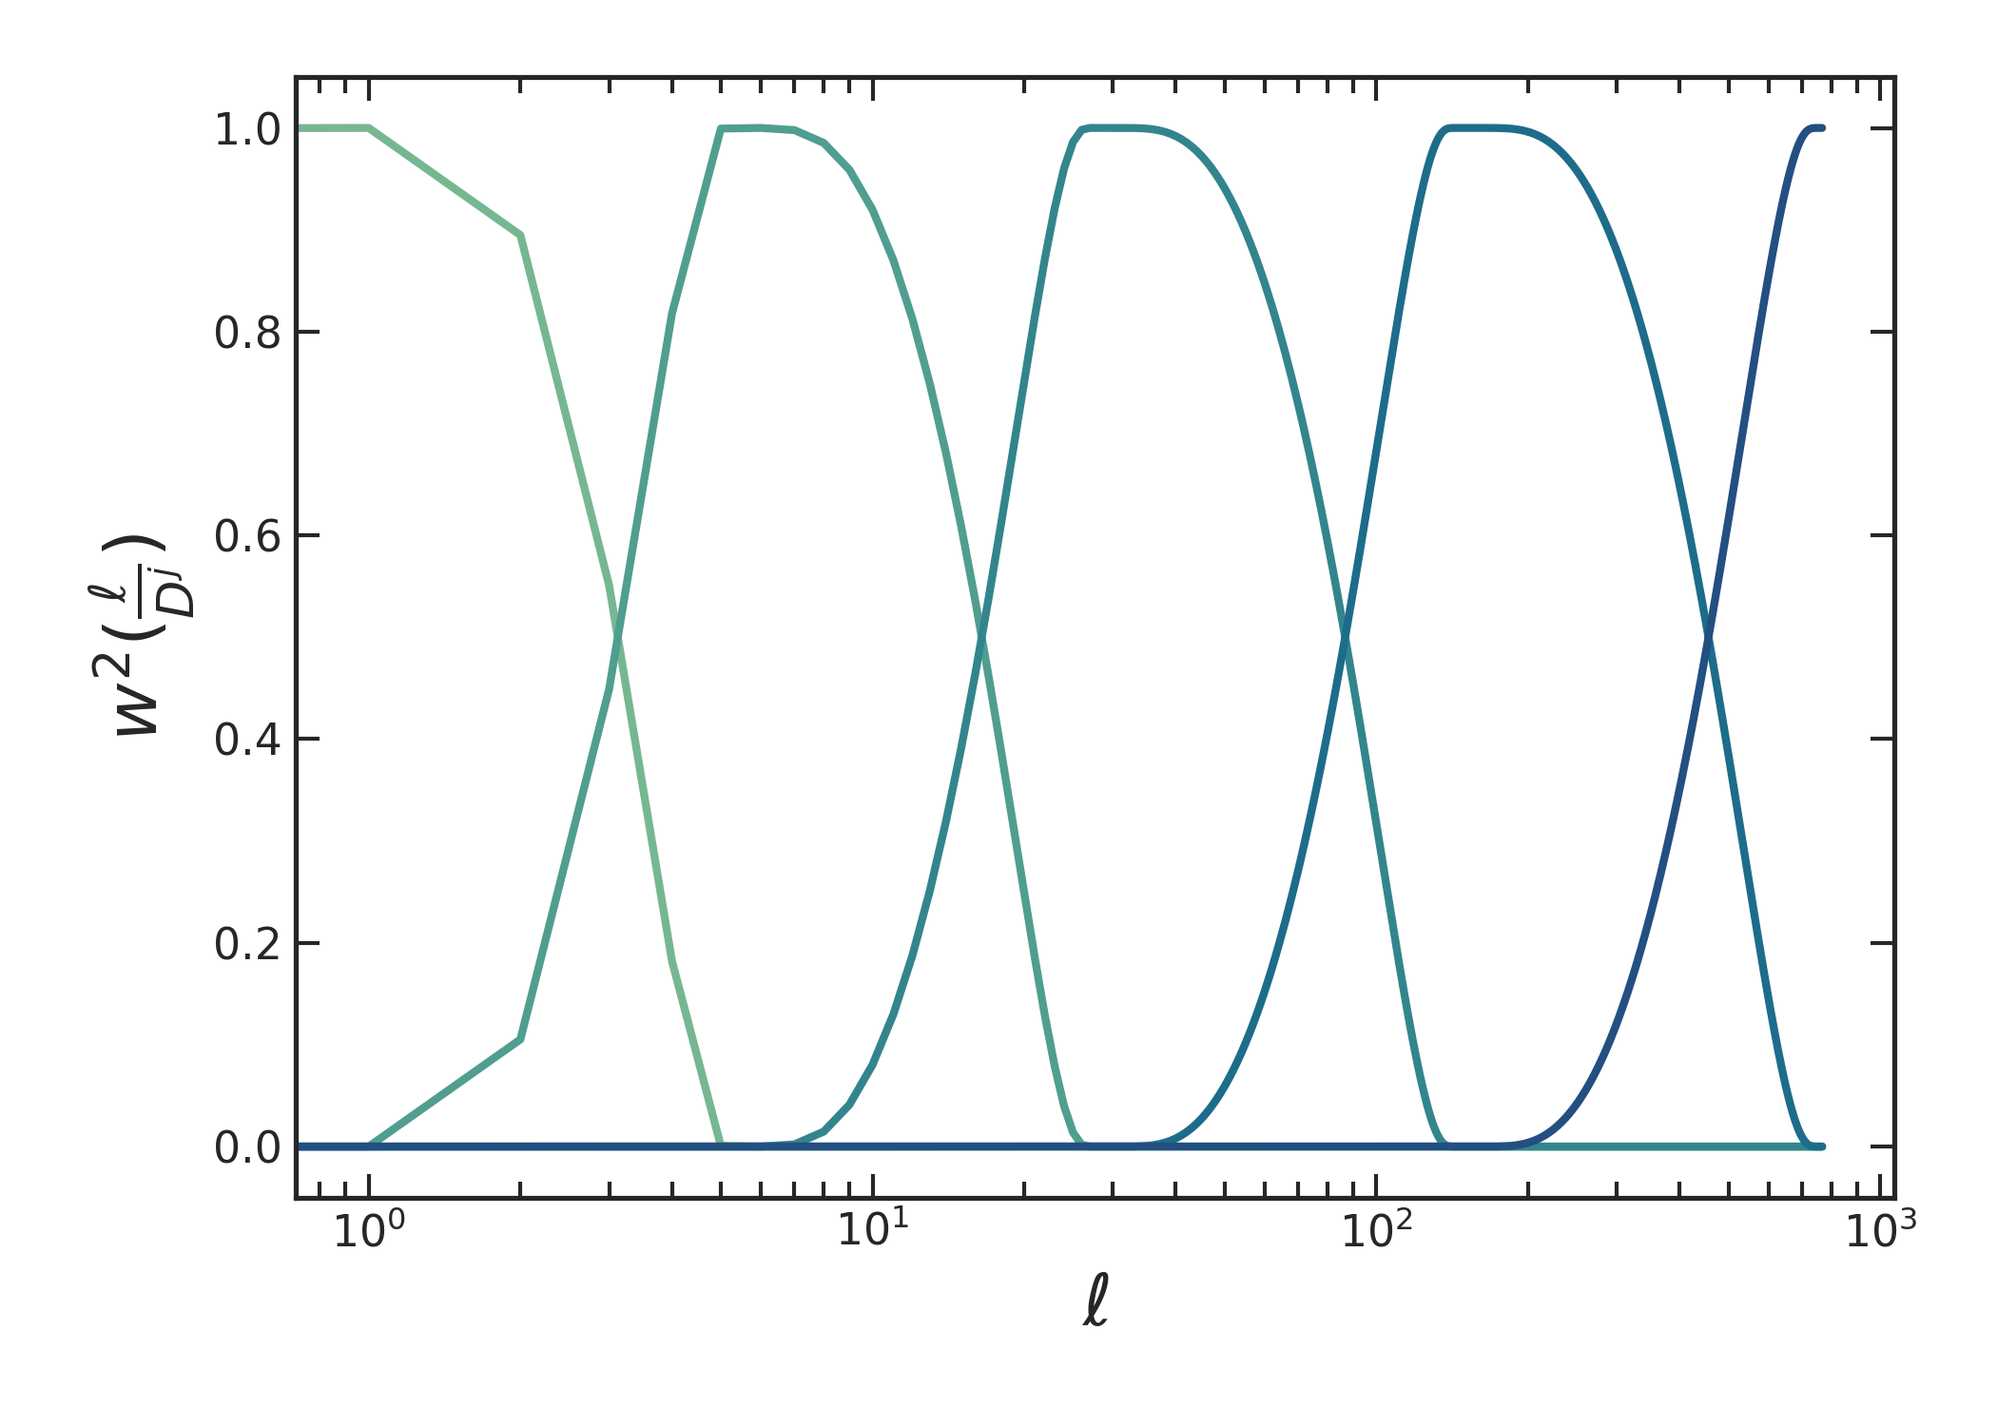
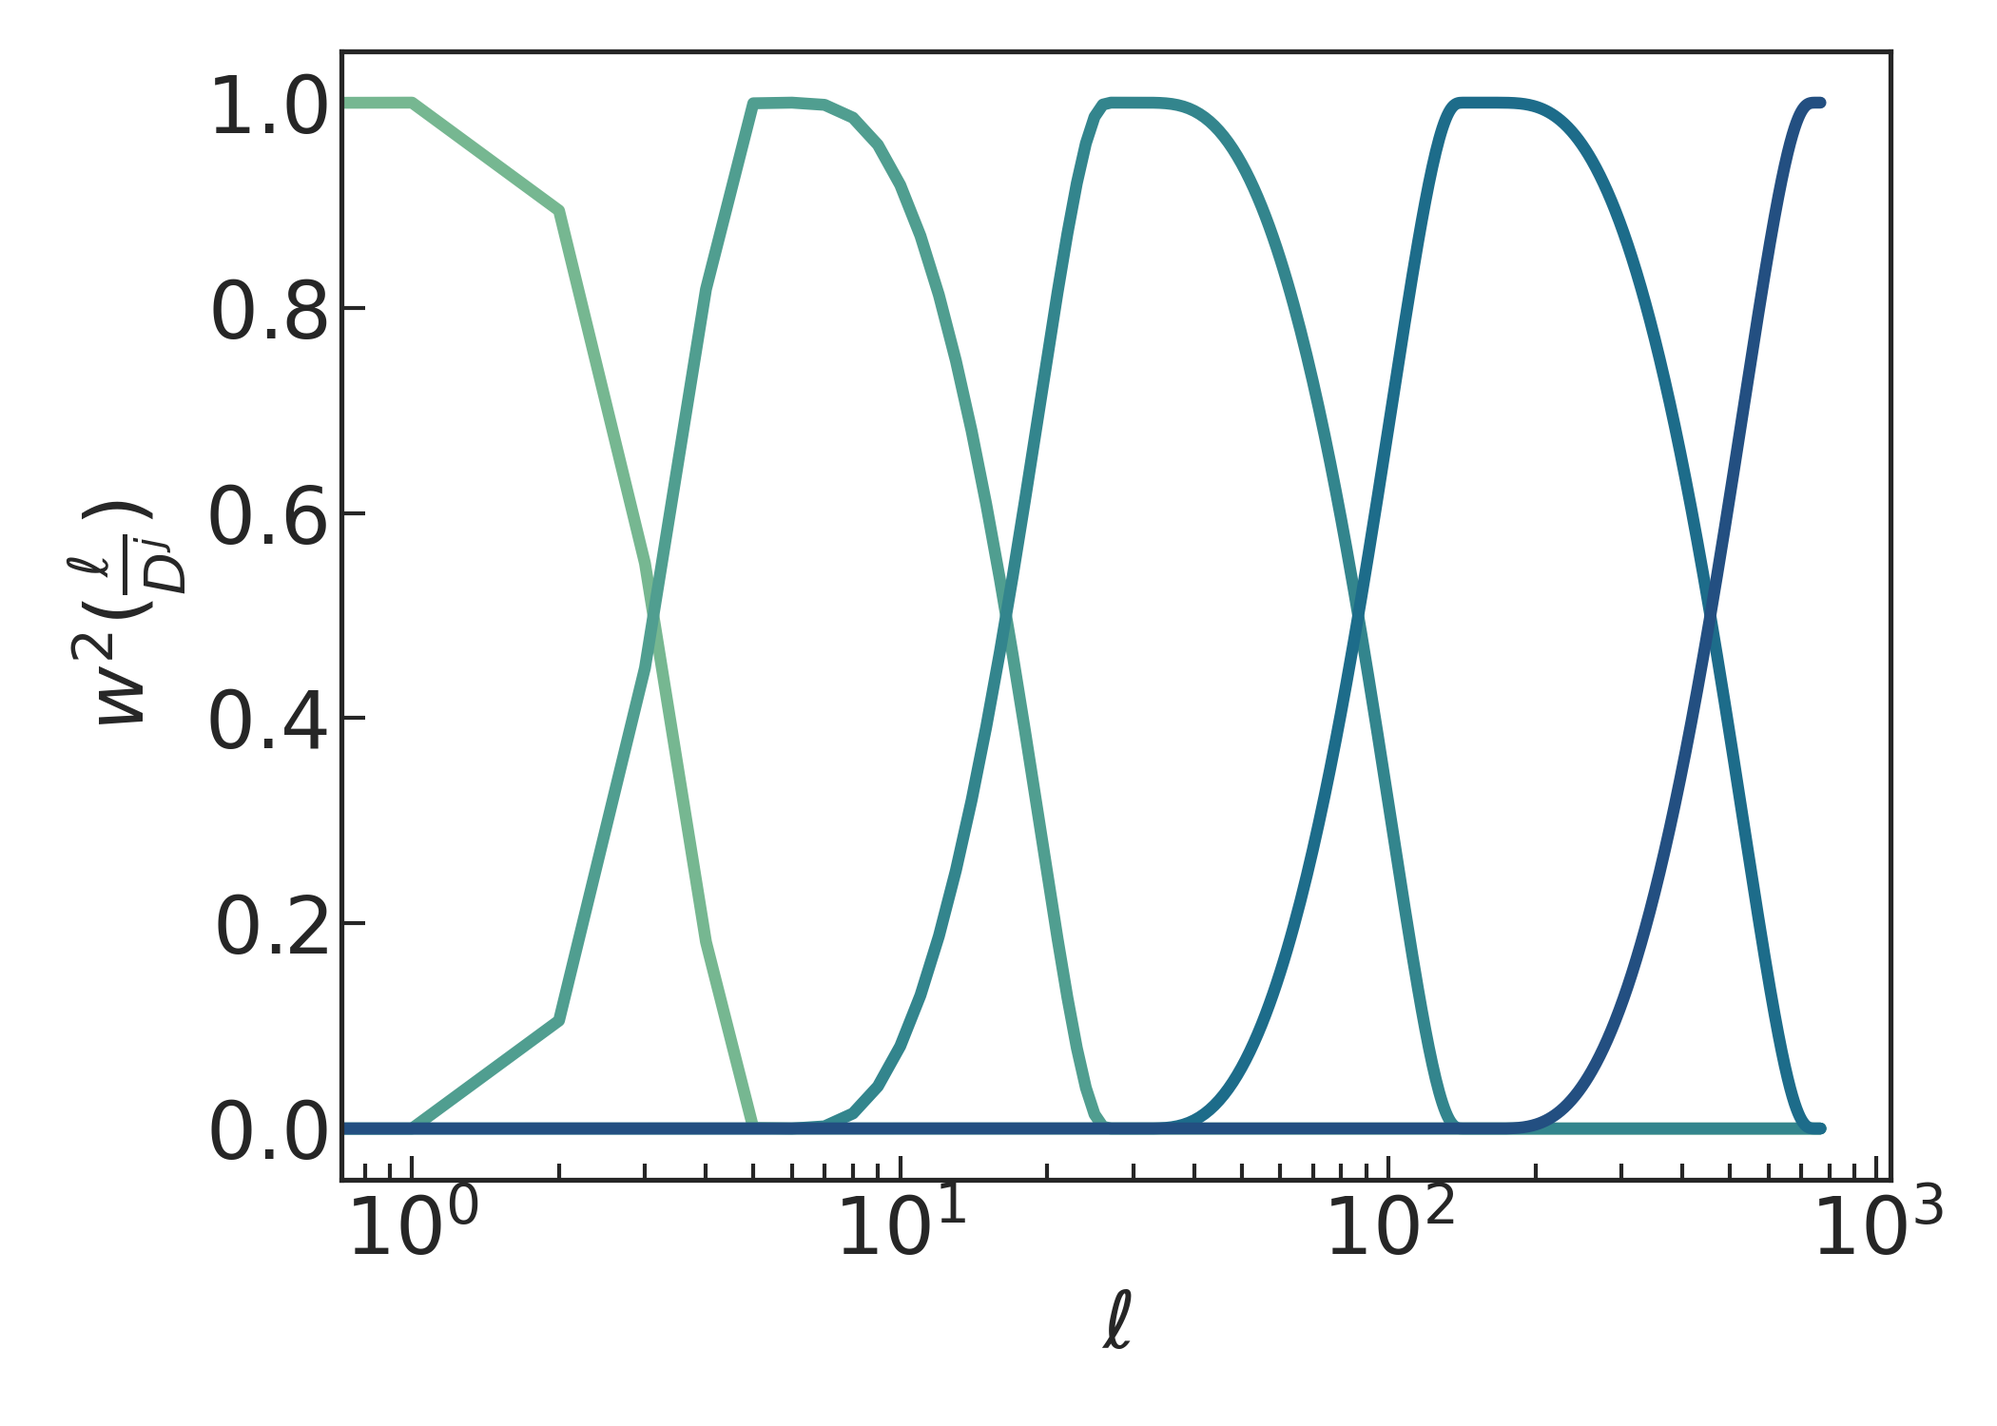
fixed some plots

diff --git a/PCA_needlets_output/confronto_PCA_needlets_jmax.py b/PCA_needlets_output/confronto_PCA_needlets_jmax.py
@@ -1,100 +1,175 @@
 import healpy as hp
-from astropy import io
-import pickle
 import numpy as np
 import matplotlib.pyplot as plt
+import pymaster as nm
 import os
+import pickle
+
 import seaborn as sns
-import scipy.linalg as lng
 sns.set_theme(style = 'white')
-#sns.set_palette('husl',15)
-
+from matplotlib import colors
 import matplotlib as mpl
-mpl.rc('xtick', direction='in', top=True, bottom = True)
-mpl.rc('ytick', direction='in', right=True, left = True)
-###########################################################################
-beam_s = 'theta40arcmin'
-dir_PCA_beam = f'maps_reconstructed/No_mean/Beam_{beam_s}_noise/'
+mpl.rc('xtick', direction='in', top=False, bottom = True)
+mpl.rc('ytick', direction='in', right=False, left = True)
 
-dir_PCA_cl_beam = dir_PCA_beam+'cls_recons_need/'
+#print(sns.color_palette("husl", 15).as_hex())
+sns.palettes.color_palette()
+import cython_mylibc as pippo
 
+plt.rcParams['figure.figsize']=(11,7)
+plt.rcParams['axes.titlesize']=20
+plt.rcParams['lines.linewidth']  = 3.
+plt.rcParams['lines.markersize']=6
+plt.rcParams['axes.labelsize']  =20
+plt.rcParams['legend.fontsize']=20
+plt.rcParams['xtick.labelsize']=20
+plt.rcParams['ytick.labelsize']=20
+plt.rcParams['xtick.major.width'] = 1
+plt.rcParams['ytick.major.width'] = 1
+plt.rcParams['xtick.minor.width'] = 1
+plt.rcParams['ytick.minor.width'] = 1
+plt.rcParams['axes.formatter.use_mathtext']=True
+plt.rcParams['savefig.dpi']=300
+
+
+
+from matplotlib import ticker
+formatter = ticker.ScalarFormatter(useMathText=True)
+formatter.set_scientific(True) 
+formatter.set_powerlimits((-1,1)) 
+#############################################################################
+
+beam_s = 'SKA_AA4'
 fg_comp = 'synch_ff_ps'
-path_sims = f'/home/bianca/Documents/HI IM SKA/Sims/beam_{beam_s}_no_mean_sims_{fg_comp}_noise_40freq_905.0_1295.0MHz_thick10MHz_lmax383_nside128'
+
+out_dir_maps_recon = f'maps_reconstructed/No_mean/Beam_{beam_s}_noise_mask0.5_unseen/'
+out_dir_cl = out_dir_maps_recon+'cls_recons_need/'
 
 
-with open(path_sims+'.pkl', 'rb') as f:
-        file = pickle.load(f)
-        f.close()
+num_ch=105
+min_ch = 900.5
+max_ch = 1004.5
+nu_ch = np.linspace(min_ch, max_ch, num_ch)
+ich=int(num_ch/2.)
 
-nu_ch= file['freq']
-del file
-num_freq = len(nu_ch)
+##############################
+c_light = 3.0*1e8
+dish_diam_MeerKat = 13.5 #m
+dish_diam_SKA = 15 # m
+Ndishes_MeerKAT = 64.
+Ndishes_SKA = 133.
+dish_diam = (Ndishes_MeerKAT*dish_diam_MeerKat+ Ndishes_SKA*dish_diam_SKA)/(Ndishes_MeerKAT+Ndishes_SKA) 
+theta_FWMH_max = c_light*1e-6/np.min(nu_ch)/float(dish_diam) #radians
+lmax_theta_worst = int(np.pi/theta_FWMH_max)
+###############################
 
-nu0 =1420
-print(f'working with {len(nu_ch)} channels, from {min(nu_ch)} to {max(nu_ch)} MHz')
-print(f'i.e. channels are {nu_ch[1]-nu_ch[0]} MHz thick')
-print(f'corresponding to the redshift range z: [{min(nu0/nu_ch -1.0):.2f} - {max(nu0/nu_ch -1.0):.2f}] ')
-#########################################################################################################
-nside =128
-lmax=3*nside-1
-lmax_cl=2*nside
-Nfg=3
-#####################################################################################################
-
-cl_cosmo_HI_beam = np.loadtxt(f'../PCA_pixels_output/Maps_PCA/No_mean/Beam_{beam_s}_noise/power_spectra_cls_from_healpix_maps/cl_input_HI_noise_40_905.0_1295.0MHz_lmax256_nside128.dat')
-
-cl_PCA_HI_beam_jmax4 = np.loadtxt(f'maps_reconstructed/No_mean/Beam_{beam_s}_noise/cls_recons_need/cl_PCA_HI_noise_{fg_comp}_{num_freq}_{int(min(nu_ch))}_{int(max(nu_ch))}MHz_Nfg{Nfg}_jmax4_lmax{lmax_cl}_nside{nside}.dat')
-
-cl_PCA_HI_beam_jmax12 = np.loadtxt(f'maps_reconstructed/No_mean/Beam_{beam_s}_noise/cls_recons_need/cl_PCA_HI_noise_{fg_comp}_{num_freq}_{int(min(nu_ch))}_{int(max(nu_ch))}MHz_Nfg{Nfg}_jmax12_lmax{lmax_cl}_nside{nside}.dat')
-
-cl_PCA_HI_beam_sph = np.loadtxt(f'../PCA_pixels_output/Maps_PCA/No_mean/Beam_{beam_s}_noise/power_spectra_cls_from_healpix_maps/cl_PCA_HI_noise_{fg_comp}_{num_freq}_{min(nu_ch)}_{max(nu_ch)}MHz_Nfg{Nfg}_lmax{lmax_cl}_nside{nside}.dat')
+nside=256
+npix= hp.nside2npix(nside)
+jmax_4=4
+jmax_12=12
+lmax= 3*nside-1
+if fg_comp=='synch_ff_ps':
+	Nfg=3
+if fg_comp=='synch_ff_ps_pol':
+	Nfg=18
 
 
-ich = int(num_freq/2)
+cl_cosmo_HI=np.loadtxt(out_dir_cl+f'cl_deconv_cosmo_HI_noise_{fg_comp}_{num_ch}_{min_ch}_{max_ch}MHz_Nfg{Nfg}_jmax{jmax_4}_lmax{2*nside}_nside{nside}.dat')
+
+cl_PCA_HI_4=np.loadtxt(out_dir_cl+f'cl_deconv_PCA_HI_noise_{fg_comp}_{num_ch}_{min_ch}_{max_ch}MHz_Nfg{Nfg}_jmax{jmax_4}_lmax{2*nside}_nside{nside}.dat')
+
+cl_PCA_HI_12=np.loadtxt(out_dir_cl+f'cl_deconv_PCA_HI_noise_{fg_comp}_{num_ch}_{min_ch}_{max_ch}MHz_Nfg{Nfg}_jmax{jmax_12}_lmax{2*nside}_nside{nside}.dat')
 
 #####################################################################################################################
 
-ell = np.arange(0, lmax_cl+1)
-factor = ell*(ell+1)/(2*np.pi)
+lmax_cl = 2*nside
+ell=np.arange(lmax_cl+1)
+factor=ell*(ell+1)/(2*np.pi)
+lmin = 3
 
-diff_PCA_beam_jmax4 = cl_PCA_HI_beam_jmax4/cl_cosmo_HI_beam -1
+lmax_plot= lmax_theta_worst
+print(lmax_plot)
 
-diff_PCA_beam_jmax12 = cl_PCA_HI_beam_jmax12/cl_cosmo_HI_beam -1
+fig = plt.figure()
+frame1=fig.add_axes((.1,.3,.8,.6))
+plt.title(r'$\nu$='+f'{nu_ch[ich]} MHz')
+plt.plot(ell[lmin:],factor[lmin:]*cl_cosmo_HI[ich][lmin:],'k--',label='Cosmo HI + noise')
+plt.plot(ell[lmin:],factor[lmin:]*cl_PCA_HI_4[ich][lmin:],  label=r'Need-PCA HI + noise, $j_{\rm max}$=4')
+plt.plot(ell[lmin:],factor[lmin:]*cl_PCA_HI_12[ich][lmin:],  label=r'Need-PCA HI + noise, $j_{\rm max}$=12')
 
-diff_PCA_beam_sph = cl_PCA_HI_beam_sph/cl_cosmo_HI_beam -1
-
-################## diff tra i due ################################
-
-fig=plt.figure()
-plt.suptitle('Rel diff , mean over channels')
-plt.plot(ell[2:], 100*np.mean(diff_PCA_beam_jmax4, axis=0)[2:],'--.',mfc='none', label='jmax=4')
-plt.plot(ell[2:], 100*np.mean(diff_PCA_beam_jmax12, axis=0)[2:],'--.',mfc='none', label='jmax=12')
-plt.plot(ell[2:], 100*np.mean(diff_PCA_beam_sph, axis=0)[2:],'--.',c='k',mfc='none', label='=sph')
-
-plt.xlim([0,200])
-plt.ylim([-20,20])
-plt.xlabel(r'$\ell$')
-plt.ylabel(r'$\%\langle C_{ell}^{4}/C_{ell}^{12} -1 \rangle$')
-plt.axhline(y=0,c='k',ls='--',alpha=0.5)
+plt.ticklabel_format(style='sci', axis='y', scilimits=(0,0))
+plt.xlim([lmin,lmax_plot])
 plt.legend()
-plt.tight_layout()
+frame1.set_ylabel(r'$  \ell(\ell+1)/2\pi~ C_{\ell} $ [mK$^{2}$]')
+frame1.set_xlabel([])
+frame1.set_xticks(np.arange(lmin,lmax_plot+1, 10), labels=[])
+#frame1.yaxis.set_major_formatter(formatter) 
+
+diff_cl_std = cl_PCA_HI_4/cl_cosmo_HI-1
+diff_cl_mex = cl_PCA_HI_12/cl_cosmo_HI-1
+
+frame2=fig.add_axes((.1,.1,.8,.2))
+plt.plot(ell[lmin:], diff_cl_std[ich][lmin:]*100,label=r'$j_{\rm max}$=4')
+plt.plot(ell[lmin:], diff_cl_mex[ich][lmin:]*100,label=r'$j_{\rm max}$=12')
+
+frame2.axhline(ls='--', c= 'k', alpha=0.3)
+frame2.set_xlim([lmin,lmax_plot])
+if fg_comp=='synch_ff_ps_pol':
+	frame2.set_ylim([-50,50])
+else:
+	frame2.set_ylim([-50,50])
+frame2.set_ylabel(r'%$ C_{\ell}^{\rm PCA}/C_{\ell}^{\rm cosmo} $-1')
+frame2.set_xlabel(r'$\ell$')
+#frame2.yaxis.set_major_formatter(formatter) 
+frame2.set_xticks(np.arange(lmin,lmax_plot+1, 10))
+plt.legend(loc='upper right')
+plt.savefig(f'../PCA_needlets_output/Plots_paper/comparison_cl_std_jmax_need_ch{nu_ch[ich]}_{fg_comp}_noise_beam_{beam_s}_jmax{jmax_4}_jmax{jmax_12}_Nfg{Nfg}_nside{nside}_mask0.5.png')
 
 
-fig=plt.figure()
-plt.suptitle(f'Rel diff, channel: {nu_ch[ich]} MHz')
-plt.plot(ell[2:], 100*diff_PCA_beam_jmax4[ich][2:],'--.',mfc='none', label='jmax=4')
-plt.plot(ell[2:], 100*diff_PCA_beam_jmax12[ich][2:],'--.',mfc='none', label='jmax=12')
-plt.plot(ell[2:], 100*diff_PCA_beam_sph[ich][2:],'--.',c='k',mfc='none', label='=sph')
+#plt.show()
+####################
 
-plt.xlim([0,200])
-plt.ylim([-20,20])
-plt.xlabel(r'$\ell$')
-plt.ylabel(r'$\%C_{ell}^{4}/C_{ell}^{12} -1 $')
-plt.axhline(y=0,c='k',ls='--',alpha=0.5)
+
+fig = plt.figure()
+frame1=fig.add_axes((.1,.3,.8,.6))
+plt.title(f'Mean over frequency channels')
+plt.plot(ell[lmin:],factor[lmin:]*cl_cosmo_HI.mean(axis=0)[lmin:],'k--',label='Cosmo HI + noise')
+plt.plot(ell[lmin:],factor[lmin:]*cl_PCA_HI_4.mean(axis=0)[lmin:],  label=r'Need-PCA HI + noise, $j_{\rm max}$=4')
+plt.plot(ell[lmin:],factor[lmin:]*cl_PCA_HI_12.mean(axis=0)[lmin:],  label=r'Need-PCA HI + noise, $j_{\rm max}$=12')
+
+plt.ticklabel_format(style='sci', axis='y', scilimits=(0,0))
+plt.xlim([lmin,lmax_plot])
 plt.legend()
-plt.tight_layout()
+frame1.set_ylabel(r'$  \ell(\ell+1)/2\pi~ \langle C_{\ell} \rangle_{\rm ch}$ [mK$^{2}$]')
+frame1.set_xlabel([])
+frame1.set_xticks(np.arange(lmin,lmax_plot+1, 10), labels=[])
+#frame1.yaxis.set_major_formatter(formatter) 
 
+diff_cl_std = cl_PCA_HI_4/cl_cosmo_HI-1
+diff_cl_mex = cl_PCA_HI_12/cl_cosmo_HI-1
 
+frame2=fig.add_axes((.1,.1,.8,.2))
+plt.plot(ell[lmin:], diff_cl_std.mean(axis=0)[lmin:]*100,label=r'$j_{\rm max}$=4')
+plt.plot(ell[lmin:], diff_cl_mex.mean(axis=0)[lmin:]*100,label=r'$j_{\rm max}$=12')
+
+frame2.axhline(ls='--', c= 'k', alpha=0.3)
+frame2.set_xlim([lmin,lmax_plot])
+if fg_comp=='synch_ff_ps_pol':
+	frame2.set_ylim([-50,50])
+else:
+	frame2.set_ylim([-50,50])
+frame2.set_ylabel(r'%$ \langle C_{\ell}^{\rm PCA}/C_{\ell}^{\rm cosmo} -1\rangle_{\rm ch}$')
+frame2.set_xlabel(r'$\ell$')
+#frame2.yaxis.set_major_formatter(formatter) 
+frame2.set_xticks(np.arange(lmin,lmax_plot+1, 10))
+plt.legend(loc='upper right')
+plt.savefig(f'../PCA_needlets_output/Plots_paper/comparison_cl_std_jmax_need_mean_ch_{fg_comp}_noise_beam_{beam_s}_jmax{jmax_4}_jmax{jmax_12}_Nfg{Nfg}_nside{nside}_mask0.5.png')
+
+fig = plt.figure()
+plt.plot(ell[lmin:], (diff_cl_mex/diff_cl_std-1).mean(axis=0)[lmin:])
+plt.axhline(ls='--', c= 'k', alpha=0.3)
+plt.xlim([lmin,lmax_plot])
+plt.ylim([-5,5])
+plt.ylabel('% diff of the diff')
+plt.xlabel(r'$\ell$')
 plt.show()
-
-#del diff_PCA_beam; del cl_PCA_HI

diff --git a/PCA_needlets_output/PCA_needlets_results_beam_noise_mask.py b/PCA_needlets_output/PCA_needlets_results_beam_noise_mask.py
@@ -62,7 +62,7 @@ min_ch = 900.5
 max_ch = 1004.5
 nside=256
 npix= hp.nside2npix(nside)
-jmax=4
+jmax=12
 lmax= 3*nside-1
 if fg_comp=='synch_ff_ps':
 	Nfg=3
@@ -101,7 +101,7 @@ bad_v = np.where(mask_50==0)
 ############################################################################################
 ####################### NEEDLETS2HARMONICS #################################################
 
-#b_values = pippo.mylibpy_needlets_std_init_b_values(B,jmax,lmax)
+b_values = pippo.mylibpy_needlets_std_init_b_values(B,jmax,lmax)
 #with open(path_PCA_HI+'.pkl', 'rb') as f:
 #	res_PCA_HI = pickle.load(f)
 #	f.close()
@@ -486,37 +486,35 @@ del diff_cl_need2sphe; #del diff_cl_need2sphe_cosmo_recons
 print(' sto ricostruendo il leakage')
 
 #need_HI_leak=np.load(path_leak_HI+'.npy')
-#with open(path_leak_HI+'.pkl', 'rb') as f:
-#	need_HI_leak = pickle.load(f)
-#	f.close()
-#del f
+with open(path_leak_HI+'.pkl', 'rb') as f:
+	need_HI_leak = pickle.load(f)
+	f.close()
+del f
+map_leak_HI_need2pix=np.zeros((len(nu_ch), npix))
+for nu in range(len(nu_ch)):
+    #map_leak_HI_need2pix[nu] = pippo.mylibpy_needlets_betajk2f_healpix_harmonic(need_HI_leak[:,nu],B, lmax)
+    for j in range(need_HI_leak.shape[0]):
+        map_leak_HI_need2pix[nu] += pippo.mylibpy_needlets_f2betajk_j_healpix_harmonic(need_HI_leak[j,nu],b_values,j)
+    #map_leak_HI_need2pix[nu] = hp.remove_dipole(map_leak_HI_need2pix[nu])
+np.save(out_dir_maps_recon+f'maps_reconstructed_leak_HI_{fg_comp}_{num_ch}_{min_ch}_{max_ch}MHz_jmax{jmax}_lmax{lmax}_Nfg{Nfg}_nside{nside}',map_leak_HI_need2pix)
+del need_HI_leak
 
-#map_leak_HI_need2pix=np.zeros((len(nu_ch), npix))
-#for nu in range(len(nu_ch)):
-#    #map_leak_HI_need2pix[nu] = pippo.mylibpy_needlets_betajk2f_healpix_harmonic(need_HI_leak[:,nu],B, lmax)
-#    for j in range(need_HI_leak.shape[0]):
-#        map_leak_HI_need2pix[nu] += pippo.mylibpy_needlets_f2betajk_j_healpix_harmonic(need_HI_leak[j,nu],b_values,j)
-#    #map_leak_HI_need2pix[nu] = hp.remove_dipole(map_leak_HI_need2pix[nu])
-#np.save(out_dir_maps_recon+f'maps_reconstructed_leak_HI_{fg_comp}_{num_ch}_{min_ch}_{max_ch}MHz_jmax{jmax}_lmax{lmax}_Nfg{Nfg}_nside{nside}',map_leak_HI_need2pix)
-
-#del need_HI_leak
-#
-##need_fg_leak=np.load(path_leak_Fg+'.npy')
-#with open(path_leak_Fg+'.pkl', 'rb') as f:
-#	need_fg_leak = pickle.load(f)
-#	f.close()	
-#map_leak_fg_need2pix=np.zeros((len(nu_ch), npix))
-#for nu in range(len(nu_ch)):
-#    for j in range(need_fg_leak.shape[0]):
-#        map_leak_fg_need2pix[nu] += pippo.mylibpy_needlets_f2betajk_j_healpix_harmonic(need_fg_leak[j,nu],b_values,j)
-#    #map_leak_fg_need2pix[nu] = hp.remove_dipole(map_leak_fg_need2pix[nu])
-#    #map_leak_fg_need2pix[nu] = pippo.mylibpy_needlets_betajk2f_healpix_harmonic(need_fg_leak[:,nu],B, lmax)
-#del need_fg_leak
-#np.save(out_dir_maps_recon+f'maps_reconstructed_leak_fg_{fg_comp}_{num_ch}_{min_ch}_{max_ch}MHz_jmax{jmax}_lmax{lmax}_Nfg{Nfg}_nside{nside}',map_leak_fg_need2pix)
+#need_fg_leak=np.load(path_leak_Fg+'.npy')
+with open(path_leak_Fg+'.pkl', 'rb') as f:
+	need_fg_leak = pickle.load(f)
+	f.close()	
+map_leak_fg_need2pix=np.zeros((len(nu_ch), npix))
+for nu in range(len(nu_ch)):
+    for j in range(need_fg_leak.shape[0]):
+        map_leak_fg_need2pix[nu] += pippo.mylibpy_needlets_f2betajk_j_healpix_harmonic(need_fg_leak[j,nu],b_values,j)
+    #map_leak_fg_need2pix[nu] = hp.remove_dipole(map_leak_fg_need2pix[nu])
+    #map_leak_fg_need2pix[nu] = pippo.mylibpy_needlets_betajk2f_healpix_harmonic(need_fg_leak[:,nu],B, lmax)
+del need_fg_leak
+np.save(out_dir_maps_recon+f'maps_reconstructed_leak_fg_{fg_comp}_{num_ch}_{min_ch}_{max_ch}MHz_jmax{jmax}_lmax{lmax}_Nfg{Nfg}_nside{nside}',map_leak_fg_need2pix)
 
 
-map_leak_HI_need2pix = np.load(out_dir_maps_recon+f'maps_reconstructed_leak_HI_{fg_comp}_{num_ch}_{min_ch}_{max_ch}MHz_jmax{jmax}_lmax{lmax}_Nfg{Nfg}_nside{nside}.npy')
-map_leak_fg_need2pix = np.load(out_dir_maps_recon+f'maps_reconstructed_leak_fg_{fg_comp}_{num_ch}_{min_ch}_{max_ch}MHz_jmax{jmax}_lmax{lmax}_Nfg{Nfg}_nside{nside}.npy')
+#map_leak_HI_need2pix = np.load(out_dir_maps_recon+f'maps_reconstructed_leak_HI_{fg_comp}_{num_ch}_{min_ch}_{max_ch}MHz_jmax{jmax}_lmax{lmax}_Nfg{Nfg}_nside{nside}.npy')
+#map_leak_fg_need2pix = np.load(out_dir_maps_recon+f'maps_reconstructed_leak_fg_{fg_comp}_{num_ch}_{min_ch}_{max_ch}MHz_jmax{jmax}_lmax{lmax}_Nfg{Nfg}_nside{nside}.npy')
 
 fig = plt.figure(figsize=(10, 7))
 fig.suptitle(f'channel: {nu_ch[ich]} MHz, BEAM {beam}, jmax:{jmax}, lmax:{lmax}, Nfg:{Nfg}',fontsize=20)

diff --git a/data_cube_HI_needlets_beam_noise_mask_unseen.py b/data_cube_HI_needlets_beam_noise_mask_unseen.py
@@ -10,8 +10,8 @@ import seaborn as sns
 sns.set_theme(style = 'white')
 from matplotlib import colors
 import matplotlib as mpl
-mpl.rc('xtick', direction='in', top=True, bottom = True)
-mpl.rc('ytick', direction='in', right=True, left = True)
+mpl.rc('xtick', direction='in', top=False, bottom = True)
+mpl.rc('ytick', direction='in', right=False, left = True)
 
 sns.palettes.color_palette()
 import cython_mylibc as pippo
@@ -78,7 +78,7 @@ del file
 npix = np.shape(HI_noise_maps_freq)[1]
 nside = hp.get_nside(HI_noise_maps_freq[0])
 lmax=3*nside-1#2*nside#
-jmax=4
+jmax=12
 
 	
 ######################################################################################
@@ -122,8 +122,6 @@ hp.mollview(full_maps_freq[ich]-fg_maps_freq[ich], title=f'Observation - Fg',cma
 plt.show()
 
 
-
-jmax=4
 out_dir = f'./Maps_needlets/No_mean/Beam_{beam_s}_noise_mask{fsky_50:0.2}_unseen/'
 if not os.path.exists(out_dir):
 	os.makedirs(out_dir)
@@ -172,7 +170,7 @@ ax1.legend(loc='right')
 
 fig, ax1  = plt.subplots(1,1,figsize=(7,5), dpi=100) 
 #plt.suptitle(r'$D = %1.2f $' %myanalysis.B +r'$ ,~j_{\mathrm{max}} =$'+str(jmax) + r'$ ,~\ell_{\mathrm{max}} =$'+str(lmax))
-pal = sns.color_palette("crest", n_colors=5)
+pal = sns.color_palette("crest", n_colors=jmax+1)
 for i in range(0,jmax+1):
 	ax1.plot(need_theory.b_values[i]*need_theory.b_values[i], c=pal[i])#, label = 'j='+str(i) )
 ax1.set_xscale('log')

diff --git a/PCA_needlets_beam_noise_mask_unseen.py b/PCA_needlets_beam_noise_mask_unseen.py
@@ -61,7 +61,7 @@ del file
 
 
 need_dir = f'Maps_needlets/No_mean/Beam_{beam_s}_noise_mask0.5_unseen/'
-need_tot_maps_filename = need_dir+f'bjk_maps_obs_noise_{fg_comp}_105freq_900.5_1004.5MHz_jmax4_lmax767_B5.26_nside256.npy'
+need_tot_maps_filename = need_dir+f'bjk_maps_obs_noise_{fg_comp}_105freq_900.5_1004.5MHz_jmax12_lmax767_B1.74_nside256.npy'
 need_tot_maps = np.load(need_tot_maps_filename)
 
 jmax=need_tot_maps.shape[1]-1
@@ -201,8 +201,8 @@ for j in range(eigenvec_fg_Nfg.shape[0]):
     res_HI_maps[j,:,:] = need_tot_maps[:,j,:] - res_fg_maps[j,:,:]
     res_HI_maps[j,:,bad_v]=hp.UNSEEN
 
-    hp.mollview(res_HI_maps[j][ich],min=0, max=0.39, cmap='viridis', title=f'j={j}')
-plt.show()
+    #hp.mollview(res_HI_maps[j][ich],min=0, max=0.39, cmap='viridis', title=f'j={j}')
+#plt.show()
 del need_tot_maps
 
 
